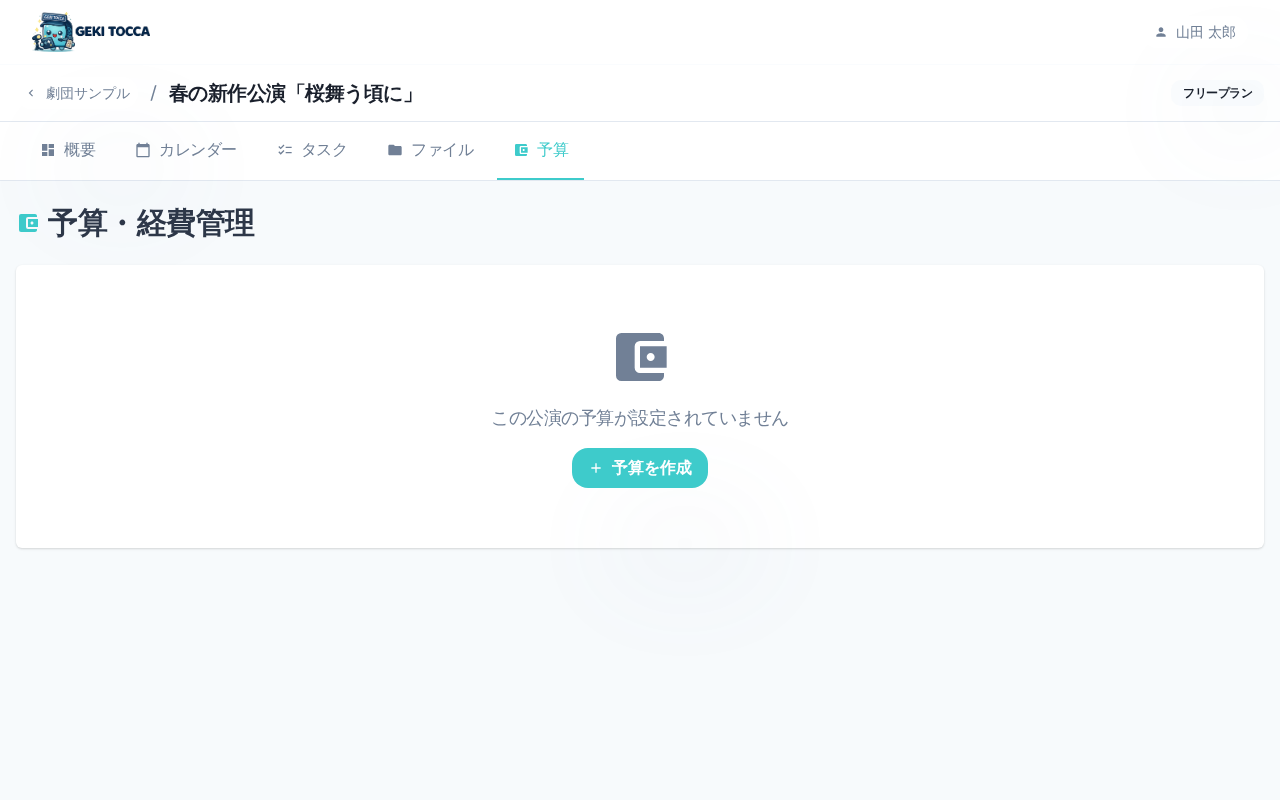
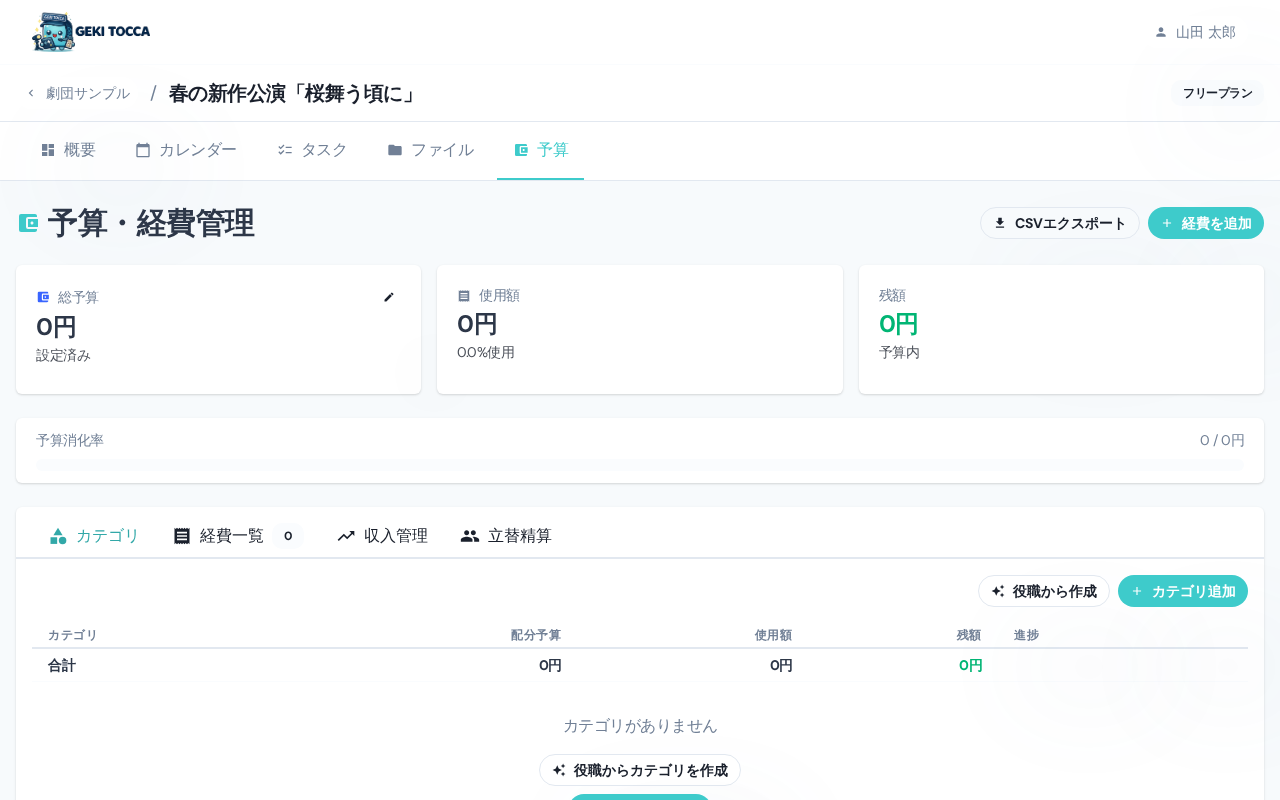
feat: Heroセクションに予算管理を追加
- Heroの機能一覧に予算管理を追加（タスク管理の次）
- SecondaryFeaturesの予算管理スクリーンショットは一旦コメントアウト
  （データが入ったスクリーンショットが撮れたら追加予定）

🤖 Generated with [Claude Code](https://claude.com/claude-code)

diff --git a/src/components/Hero.tsx b/src/components/Hero.tsx
@@ -61,6 +61,12 @@ export function Hero() {
             <svg className="h-5 w-5 text-cyan-500" fill="none" viewBox="0 0 24 24" stroke="currentColor">
               <path strokeLinecap="round" strokeLinejoin="round" strokeWidth={2} d="M5 13l4 4L19 7" />
             </svg>
+            予算管理
+          </span>
+          <span className="flex items-center gap-2">
+            <svg className="h-5 w-5 text-cyan-500" fill="none" viewBox="0 0 24 24" stroke="currentColor">
+              <path strokeLinecap="round" strokeLinejoin="round" strokeWidth={2} d="M5 13l4 4L19 7" />
+            </svg>
             スケジュール管理
           </span>
           <span className="flex items-center gap-2">

diff --git a/src/components/SecondaryFeatures.tsx b/src/components/SecondaryFeatures.tsx
@@ -13,6 +13,14 @@ const features = [
       '担当者・期限・優先度を設定して、公演準備の進捗を可視化。',
     image: '/screenshots/tasks.png',
   },
+  // TODO: 予算管理のスクリーンショットにデータが入ったら追加
+  // {
+  //   name: '予算管理',
+  //   summary: '公演の収支を一目で把握',
+  //   description:
+  //     '支出・収入の記録、チケット売上管理、立替精算まで、お金の管理をシンプルに。',
+  //   image: '/screenshots/budget.png',
+  // },
   {
     name: 'カレンダー',
     summary: '稽古・本番のスケジュールを一元管理',
